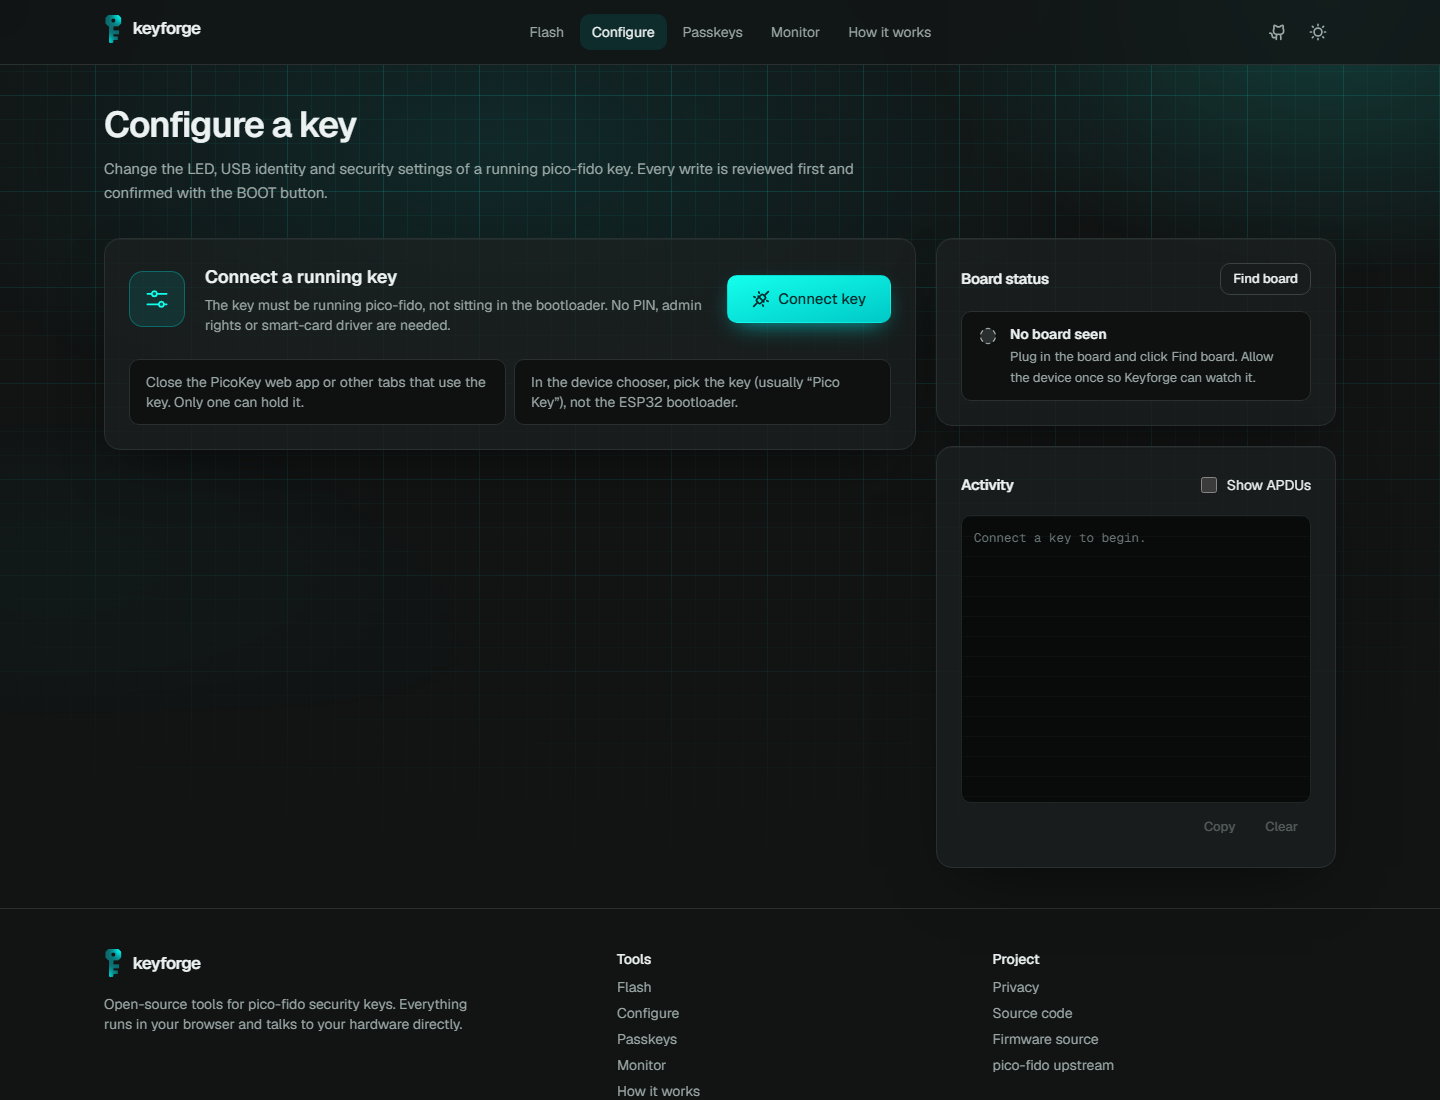
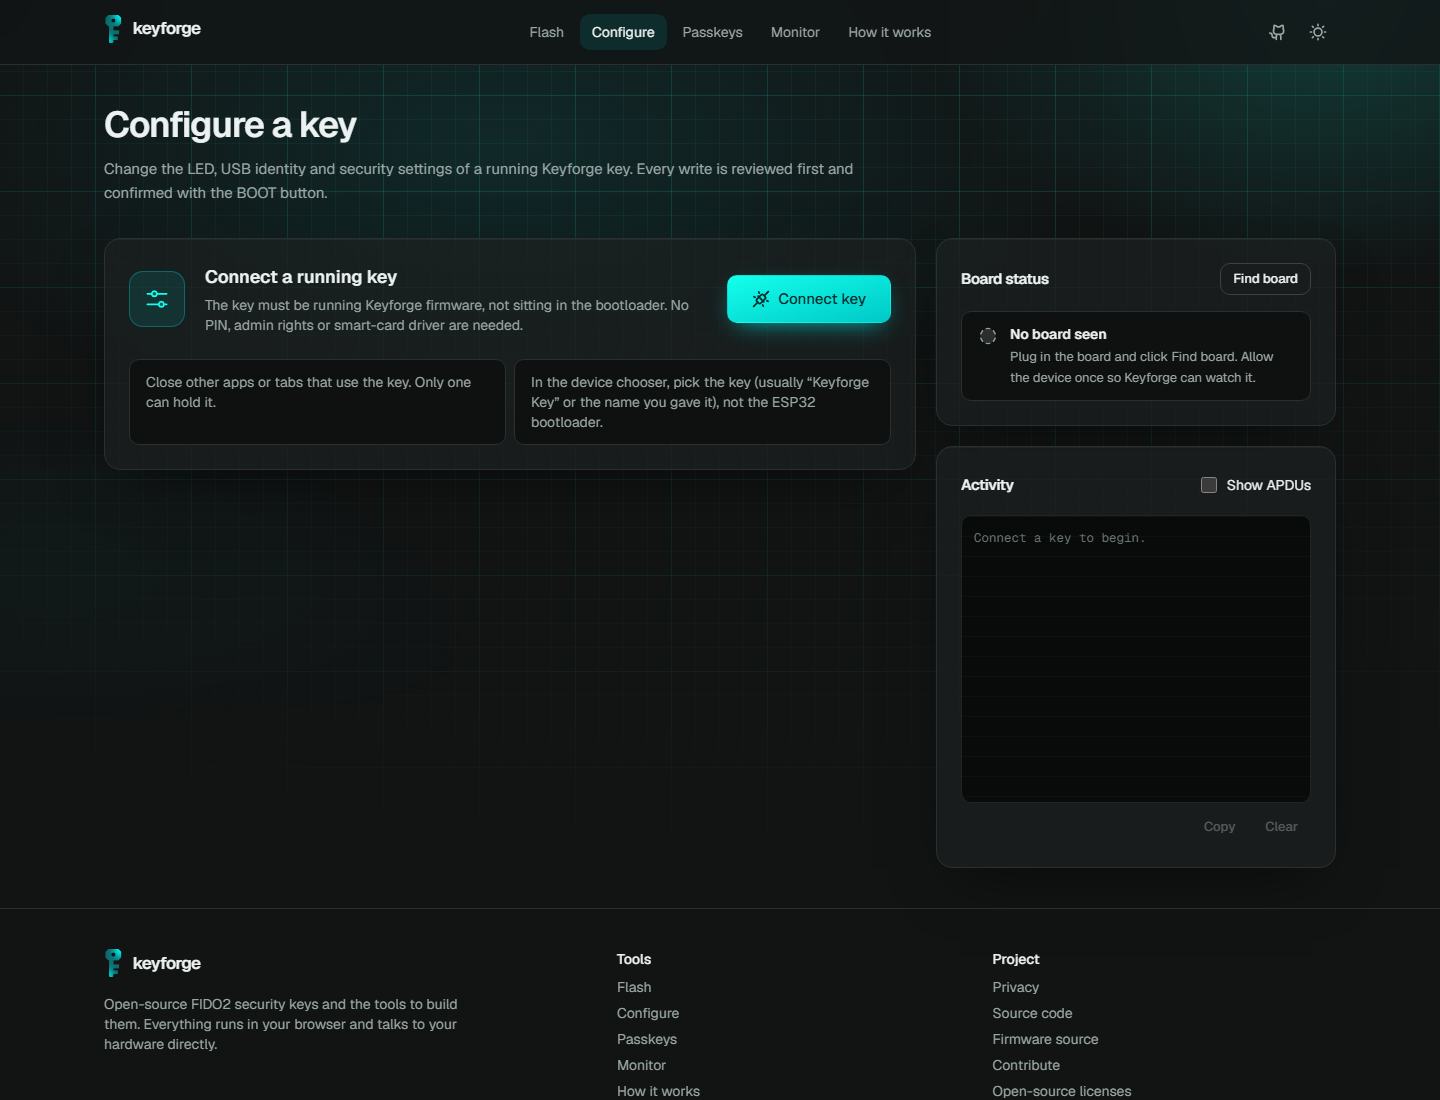
Docs: Hindi README, India focus, refreshed screenshots

diff --git a/README.md b/README.md
@@ -7,10 +7,10 @@
 
 ### A $5 board. A browser tab. Your own FIDO2 security key.
 
-Flash, configure and manage open-source [pico-fido](https://github.com/polhenarejos/pico-fido) keys on ESP32 and Raspberry Pi
-boards, with firmware built in the open by GitHub Actions.
+Flash, configure and manage open-source FIDO2 keys on ESP32 and Raspberry Pi boards,
+with firmware built in the open by GitHub Actions. Made in India 🇮🇳, for everyone.
 
-[**keyforge.tech**](https://keyforge.tech) · [How it works](https://keyforge.tech/how-it-works) · [Build your own firmware](firmware/README.md)
+[**keyforge.tech**](https://keyforge.tech) · [How it works](https://keyforge.tech/how-it-works) · [Build your own firmware](firmware/README.md) · [Contribute](CONTRIBUTING.md) · [हिन्दी](README.hi.md)
 
 [![CI](https://github.com/SamieTheCoder/keyforge/actions/workflows/ci.yml/badge.svg)](https://github.com/SamieTheCoder/keyforge/actions/workflows/ci.yml)
 [![Firmware](https://github.com/SamieTheCoder/keyforge/actions/workflows/firmware.yml/badge.svg)](https://github.com/SamieTheCoder/keyforge/actions/workflows/firmware.yml)
@@ -24,10 +24,12 @@ boards, with firmware built in the open by GitHub Actions.
 
 ## Why
 
-Hardware security keys cost $25 to $70. pico-fido turns a $3 to $8 microcontroller into a FIDO2 / WebAuthn key with passkeys, PIN,
-OATH and OTP. Getting it onto a board used to mean toolchains, `esptool`, `picotool` and a desktop app.
+A branded hardware security key costs ₹2,500 to ₹7,000 in India. The same protection (phishing-proof passkeys, a PIN,
+OATH and OTP) runs on a ₹300 to ₹700 ESP32-S3 or Raspberry Pi Pico board with open-source firmware. Getting that firmware
+onto a board used to mean toolchains, `esptool`, `picotool` and a desktop app.
 
-Keyforge does all of it in the browser. No install, no drivers, no account.
+Keyforge does all of it in the browser. No install, no drivers, no account. Students, small teams, colleges and
+anyone who cannot afford a key can now build one, check exactly what runs on it, and change it.
 
 ## What it does
 
@@ -38,7 +40,7 @@ Keyforge does all of it in the browser. No install, no drivers, no account.
 | 🔑 **Passkeys** | Set or change the PIN, see storage used, list every site and account with a passkey on the key, delete the ones you no longer use. |
 | 🛡 **Secure boot** | Read the eFuse / OTP state and, if you choose, enable or lock it with typed confirmation and plain-language warnings. |
 | 🖥 **Monitor** | Serial boot log with hints for the usual failures and per-board reset steps. |
-| 🧬 **Open firmware** | pico-fido + Keyforge patches in [`firmware/`](firmware), built by CI, released with checksums and full source. Fork it and build your own. |
+| 🧬 **Open firmware** | Keyforge firmware in [`firmware/`](firmware): pinned source + small patches, built by CI, released with checksums and full source. Fork it and build your own. |
 
 <table>
   <tr>
@@ -102,10 +104,11 @@ The [How it works](https://keyforge.tech/how-it-works) page walks through each p
 
 ```
 firmware/
-├── pico-fido/   upstream source, pinned submodule (v8.0)
-├── patches/     Keyforge changes, applied at build time
-├── build.sh     one script for every board
-└── Dockerfile   ESP-IDF 5.5.1 + Arm GCC + pico-sdk 2.1.1
+├── pico-fido/       pinned open-source FIDO2 code base (v8.0, AGPL-3.0)
+├── patches/         Keyforge changes, applied at build time
+├── build.sh         one script for every board
+├── Dockerfile       ESP-IDF 5.5.1 + Arm GCC + pico-sdk 2.1.1
+└── ARCHITECTURE.md  where to change what
 ```
 
 ```sh
@@ -116,11 +119,11 @@ docker run --rm -v "$PWD:/src" -w /src -e MAX_RESIDENT_CREDENTIALS=64 \
 ```
 
 Every push to `firmware/` builds all boards in CI. Running the **Firmware** workflow with *publish* creates a `fw-<version>`
-release with `.bin` / `.uf2` files, `SHA256SUMS` and the complete source tarball, which the Flasher lists as **Keyforge builds**.
+release with `.bin` / `.uf2` files, `SHA256SUMS` and the complete source tarball, which the Flasher lists as **Keyforge firmware**.
 Options, custom patches and upstream updates are in [`firmware/README.md`](firmware/README.md).
 
-> Keyforge builds are not signed with the PicoKeys release key. Do not enable secure boot on a key running them; use the official
-> release for that.
+> Keyforge firmware is not signed with the upstream release key that secure boot burns in. Do not enable secure boot on a key
+> running it; flash the "Upstream signed build" source first if you need secure boot.
 
 ## Run it locally
 
@@ -147,14 +150,23 @@ a container, a VPS). WebUSB needs HTTPS outside localhost.
 | `src/components/` | Flasher, configurator, passkeys, monitor UI |
 | `firmware/` | Firmware source, patches, build and release pipeline |
 
+## Contributing
+
+Keyforge is a community project and contributions of every size are welcome: board profiles, boot-log hints, translations into
+Indian languages, firmware options, tests and docs. Start with [CONTRIBUTING.md](CONTRIBUTING.md) and
+[firmware/ARCHITECTURE.md](firmware/ARCHITECTURE.md), pick an issue labelled `good first issue`, or share a board that works
+for you with the **Board support** issue form.
+
+Everyone taking part follows the [Code of Conduct](CODE_OF_CONDUCT.md).
+
 ## Security
 
-Found something? Please email the address in [`src/lib/site.ts`](src/lib/site.ts) rather than opening a public issue. Firmware
-vulnerabilities belong upstream at [pico-fido](https://github.com/polhenarejos/pico-fido/security).
+Found something? Report it privately through [GitHub security advisories](https://github.com/SamieTheCoder/keyforge/security/advisories/new),
+not as a public issue. Details in [SECURITY.md](SECURITY.md).
 
 ## Credits and license
 
-- [pico-fido](https://github.com/polhenarejos/pico-fido) and pico-keys-sdk by Pol Henarejos (AGPL-3.0): the firmware.
+- [pico-fido](https://github.com/polhenarejos/pico-fido) and pico-keys-sdk by Pol Henarejos (AGPL-3.0): the firmware code base.
 - [picoflash](https://github.com/piersfinlayson/picoflash) by Piers Finlayson (MIT): PICOBOOT approach.
 - [esptool-js](https://github.com/espressif/esptool-js) by Espressif (Apache-2.0).
 - [hairline](https://github.com/lucasmarkes/hairline) by Lucas Marques (MIT): the line drawings.

diff --git a/README.hi.md b/README.hi.md
@@ -1,0 +1,67 @@
+<div align="center">
+
+<img src="public/brand/keyforge-logo-on-light.svg" alt="Keyforge" height="56">
+
+### ₹500 का बोर्ड, एक ब्राउज़र टैब, और आपकी अपनी FIDO2 सिक्योरिटी की।
+
+[English](README.md) · [keyforge.tech](https://keyforge.tech) · [योगदान करें](CONTRIBUTING.md)
+
+</div>
+
+---
+
+## Keyforge क्या है?
+
+Keyforge एक ओपन-सोर्स प्रोजेक्ट है जो सस्ते ESP32 या Raspberry Pi Pico बोर्ड को **FIDO2 / पासकी सिक्योरिटी की** में बदल देता है।
+सब कुछ ब्राउज़र में होता है: कोई सॉफ़्टवेयर इंस्टॉल नहीं, कोई ड्राइवर नहीं, कोई अकाउंट नहीं।
+
+भारत में ब्रांडेड सिक्योरिटी की ₹2,500 से ₹7,000 तक की आती है। वही सुरक्षा (फ़िशिंग से बचाने वाली पासकी, PIN, OATH और OTP)
+₹300 से ₹700 के बोर्ड पर चल सकती है। Keyforge का मकसद है कि हर छात्र, कॉलेज, छोटी टीम और आम इंसान अपनी की खुद बना सके,
+देख सके कि उस पर क्या चल रहा है, और उसे बदल सके।
+
+## यह क्या करता है
+
+| | |
+| --- | --- |
+| ⚡ **फ़्लैश** | ESP32-S3 / S2 को Web Serial से और RP2040 / RP2350 को WebUSB से फ़र्मवेयर लिखें। लिखने से पहले फ़ाइल की जाँच होती है। |
+| 🎛 **कॉन्फ़िगर** | LED पिन, रंग, ब्राइटनेस, USB नाम और सिक्योर बूट। हर बदलाव बोर्ड का BOOT बटन दबाकर पक्का होता है। |
+| 🔑 **पासकी** | PIN सेट करें, देखें किन साइटों की पासकी की पर हैं, और पुरानी हटाएँ। आपका PIN इसी टैब में एन्क्रिप्ट होता है। |
+| 🖥 **मॉनिटर** | बोर्ड का बूट लॉग पढ़ें और आसान भाषा में सलाह पाएँ। |
+| 🧬 **ओपन फ़र्मवेयर** | फ़र्मवेयर [`firmware/`](firmware) में है और GitHub Actions पर सबके सामने बनता है। फ़ोर्क करें और अपना बनाएँ। |
+
+## समर्थित बोर्ड
+
+| चिप | उदाहरण |
+| --- | --- |
+| ESP32-S3 | Waveshare ESP32-S3-Zero, DevKitC-1 |
+| ESP32-S2 | Lolin S2 Mini |
+| RP2350 | Raspberry Pi Pico 2 |
+| RP2040 | Raspberry Pi Pico, RP2040-Zero |
+
+डेस्कटॉप पर Chrome या Edge चाहिए। Firefox और Safari में WebUSB नहीं है।
+
+## शुरू कैसे करें
+
+1. [keyforge.tech/flash](https://keyforge.tech/flash) खोलें।
+2. बोर्ड का **BOOT** बटन दबाकर उसे USB में लगाएँ।
+3. अपनी चिप चुनें, **Keyforge firmware** चुनें, और **Flash firmware** दबाएँ।
+4. **Configure** में LED सेट करें, फिर **Passkeys** में PIN सेट करें।
+5. अपने अकाउंट (Google, GitHub, Microsoft आदि) में इसे पासकी या सिक्योरिटी की की तरह जोड़ें।
+
+> ज़रूरी: किसी भी सिक्योरिटी की की तरह, अपने अकाउंट में लॉग इन करने का दूसरा तरीका (बैकअप की या रिकवरी कोड) ज़रूर रखें।
+
+## योगदान करें
+
+यह कम्युनिटी का प्रोजेक्ट है। आप मदद कर सकते हैं:
+
+- **बोर्ड जोड़कर:** जो बोर्ड आपके पास चलता है, उसकी LED सेटिंग **Board support** इश्यू में बताएँ।
+- **अनुवाद करके:** तमिल, तेलुगु, बंगाली, मराठी, कन्नड़, गुजराती या किसी भी भाषा में README (`README.<code>.md`)।
+- **कोड से:** वेब ऐप `src/` में (TypeScript) और फ़र्मवेयर `firmware/` में (C) है।
+  [CONTRIBUTING.md](CONTRIBUTING.md) और [firmware/ARCHITECTURE.md](firmware/ARCHITECTURE.md) से शुरू करें।
+
+## लाइसेंस
+
+Keyforge फ़्री सॉफ़्टवेयर है, [GNU AGPL-3.0](LICENSE) के तहत। फ़र्मवेयर ओपन-सोर्स pico-fido कोड बेस (AGPL-3.0, Pol Henarejos)
+पर आधारित है। पूरी जानकारी [THIRD_PARTY_NOTICES.md](THIRD_PARTY_NOTICES.md) में है।
+
+Keyforge एक स्वतंत्र प्रोजेक्ट है। Espressif, Raspberry Pi या FIDO Alliance से इसका कोई संबंध नहीं है।
